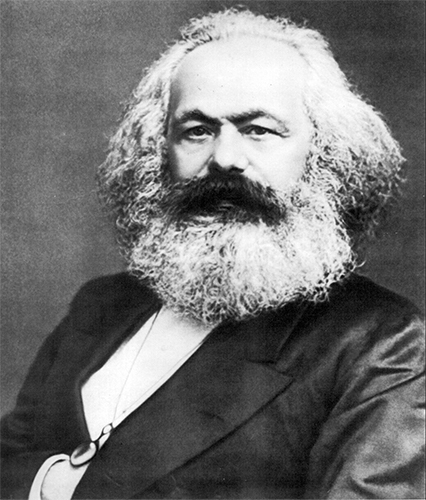
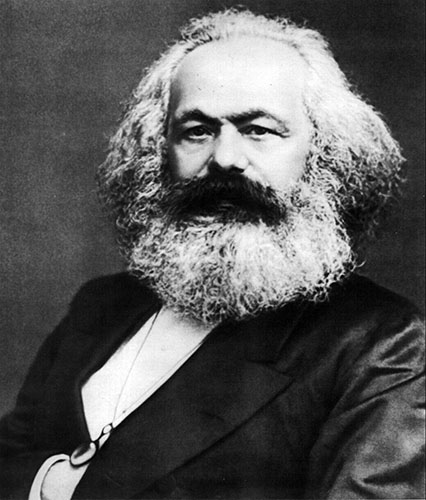
Efficiently encoded images

diff --git a/index.html b/index.html
@@ -17,26 +17,12 @@
 
 <body>
 
-    <script>
-        // Register the service worker that intercepts jpg and png requests and replaces their responses with webp responses.
-        if ('serviceWorker' in navigator) {
-            navigator.serviceWorker.register('js/webp-service-worker.js').then(function (registration) {
-                // Registration was successful
-                console.log('ServiceWorker registration successful with scope: ', registration.scope);
-            }).catch(function (err) {
-                // registration failed :(
-                console.log('ServiceWorker registration failed: ', err);
-            });
-        }
-    </script>
-
     <!-- Top Navigation Menu -->
     <nav id="nav" class="hide">
         <a href="/" id="brand">Communism</a>
-
         <!-- "Hamburger menu" / "Bar icon" to toggle the navigation links -->
         <a href="javascript:void(0);" class="icon" onclick="toggleMenu()">
-            <i class="fa fa-bars"></i>
+            <img src="img/round-menu-24px.svg">
         </a>
         <!-- Navigation links (hidden by default) -->
         <ul class="navbar-menu" id="navbar-menu">
@@ -49,10 +35,21 @@
     <!-- Papa section -->
     <section>
         <!-- Soviet flag banner -->
-        <img class="banner" src="img/soviet_flag.png" alt="Soviet flag" />
+        <picture class="banner">
+            <source srcset="img/soviet_flag.webp" type="image/webp">
+            <source srcset="img/soviet_flag.png" type="image/png">
+            <img class="banner" src="img/soviet_flag.png" alt="Soviet flag" />
+        </picture>
         <!-- Hammer and sickle background -->
         <img class="background" src="img/hammer_and_sickle.svg" alt="Hammer and sickle" />
-        <img src="img/stalin_pointing_thin.png" alt="Stalin pointing right at you with glowing eyes" />
+        <!-- Papa stalin pointing at you -->
+        <picture>
+            <source media="(min-width: 761px)" srcset="img/stalin_pointing_wide.webp" type="image/webp">
+            <source media="(min-width: 761px)" srcset="img/stalin_pointing_wide.png" type="image/png">
+            <source srcset="img/stalin_pointing_thin.webp" type="image/webp">
+            <source srcset="img/stalin_pointing_thin.png" type="image/png">
+            <img src="img/stalin_pointing_thin.png" alt="Stalin pointing right at you with glowing eyes" />
+        </picture>
         <header>
             <h1>Papa stalin needs</h1>
             <h2>You</h2>
@@ -118,7 +115,11 @@
     <!-- Quote section -->
     <section>
         <div>
-            <img src="img/hayao-miyazaki.png" alt="Hayao Miyazaki" />
+            <picture>
+                <source srcset="img/hayao-miyazaki.webp" type="image/webp">
+                <source srcset="img/hayao-miyazaki.png" type="image/png">
+                <img src="img/hayao-miyazaki.png" alt="Hayao Miyazaki" />
+            </picture>
             <p>
                 “Anime might’ve been a
                 <br>

diff --git a/css/section_papa.css b/css/section_papa.css
@@ -25,6 +25,15 @@ section:nth-of-type(1) img {
     margin-top: 0;
 }
 
+section:nth-of-type(1) picture {
+    grid-area: papa;
+    width: auto;
+    height: 50vh;
+    max-width: 100%;
+    margin: auto;
+    margin-top: 0;
+}
+
 section:nth-of-type(1) header {
     grid-area: header;
     text-align: center;
@@ -49,13 +58,13 @@ section:nth-of-type(1) hr {
     margin-top: 3rem;
 }
 
-section:nth-of-type(1) img.background {
+section:nth-of-type(1) .background {
     grid-row-start: papa;
     grid-row-end: header;
     z-index: -1;
 }
 
-section:nth-of-type(1) img.banner {
+section:nth-of-type(1) .banner {
     grid-row-start: papa;
     grid-row-end: header;
     margin: 0;
@@ -65,11 +74,7 @@ section:nth-of-type(1) img.banner {
 }
 
 @media only screen and (min-width: 761px) {
-    /* Selects all images in first section except the background images. */
-    section:nth-of-type(1) img:not(.background):not(.banner) {
-        content: url(../img/stalin_pointing_wide.png);
-    }
-    section:nth-of-type(1) img.banner {
+    section:nth-of-type(1) .banner {
         width: auto;
         height: 50vh;
     }

diff --git a/css/section_quote.css b/css/section_quote.css
@@ -37,7 +37,7 @@ section:nth-of-type(5) h2 {
     margin: 0 5vw auto auto;
 }
 
-section:nth-of-type(5) img {
+section:nth-of-type(5) picture {
     width: 100vw;
     height: auto;
     grid-area: miyazaki;
@@ -52,7 +52,7 @@ section:nth-of-type(5) img {
     section:nth-of-type(5) p {
         margin: 2vw 0 0 0;
     }
-    section:nth-of-type(5) img {
+    section:nth-of-type(5) picture {
         width: 42vw;
         height: auto;
         grid-row-start: miyazaki;
